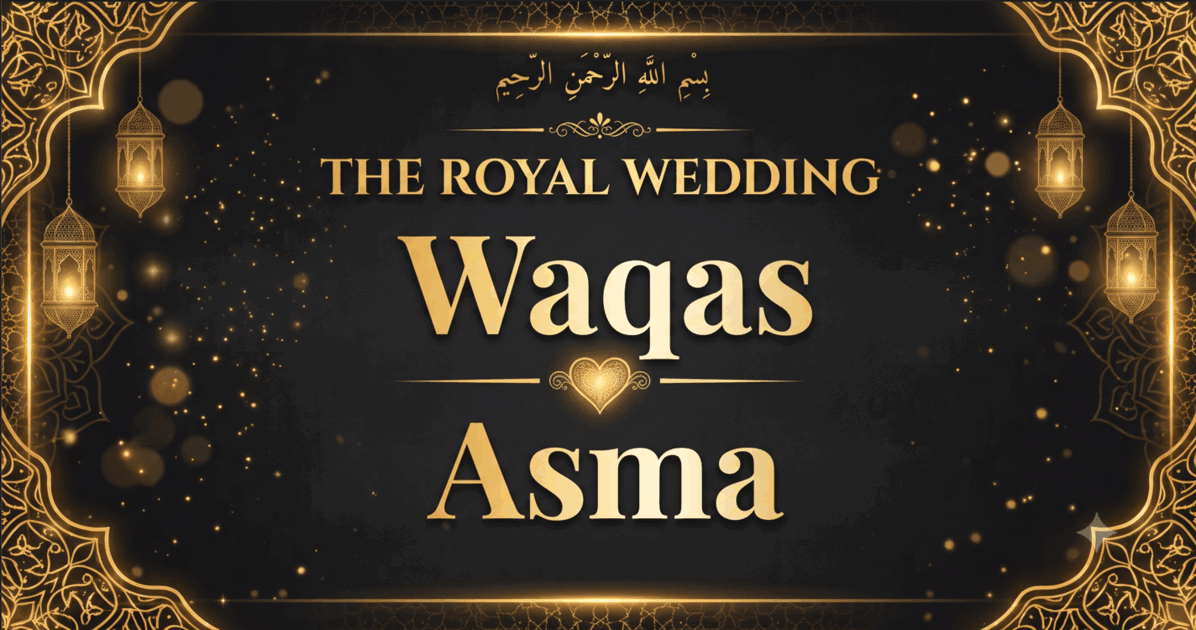
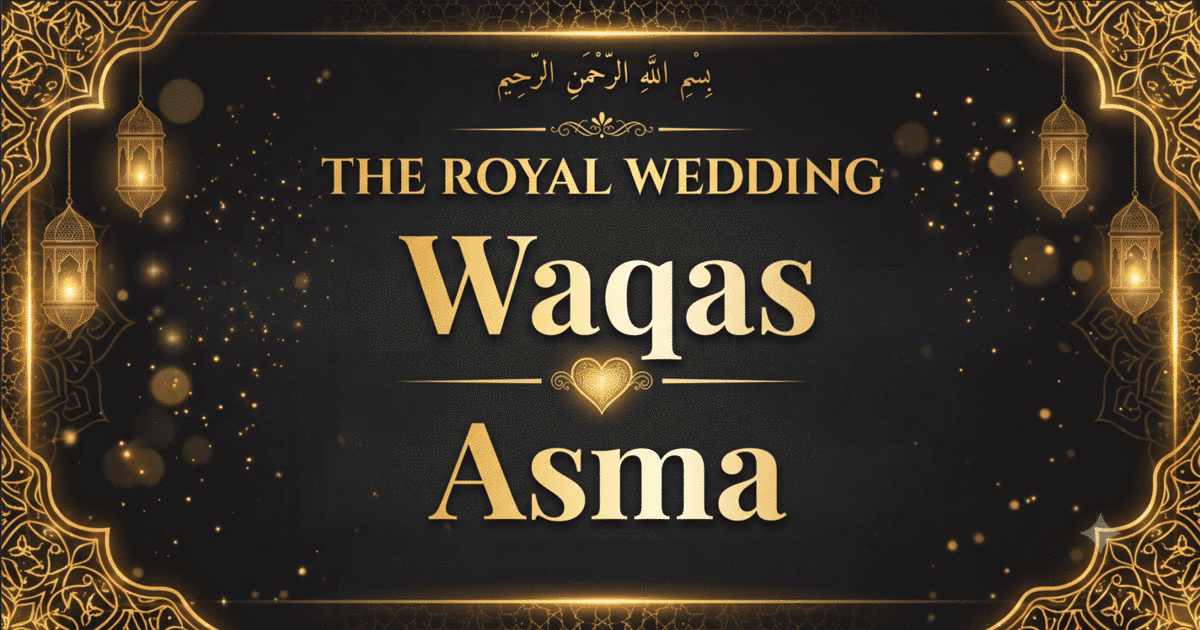
feat: enhance social sharing and image assets
- Update social preview image to PNG format for compatibility
- Add meta tags for improved WhatsApp social previews
- Add native mobile share support to ShareModal
- Configure allowed hosts in Vite dev server

diff --git a/index.html b/index.html
@@ -14,7 +14,7 @@
     <link rel="apple-touch-icon" sizes="180x180" href="/apple-touch-icon.png" />
     <link rel="icon" type="image/png" sizes="192x192" href="/icon-192.png" />
     <link rel="icon" type="image/png" sizes="512x512" href="/icon-512.png" />
-    <link rel="image_src" href="https://ais-pre-fwru2o6zrcaaozjoec3zxz-933593385806.asia-east1.run.app/wmeta.jpg" />
+    <link rel="image_src" href="https://ais-pre-fwru2o6zrcaaozjoec3zxz-933593385806.asia-east1.run.app/wmeta.png" />
 
     <!-- OpenGraph & WhatsApp Social Preview Tags (WhatsApp Android & iPhone) -->
     <meta property="og:type" content="website" />
@@ -23,31 +23,39 @@
     <meta property="og:description" content="We cordially solicit your gracious presence, blessings & prayers at the Nikkah & Valima celebration on Thursday, 31st December 2026." />
     <meta property="og:url" content="https://ais-pre-fwru2o6zrcaaozjoec3zxz-933593385806.asia-east1.run.app/" />
 
-    <!-- Primary Compressed Landscape Image (136 KB, < 300KB WhatsApp limit) -->
-    <meta property="og:image" content="https://ais-pre-fwru2o6zrcaaozjoec3zxz-933593385806.asia-east1.run.app/wmeta.jpg" />
-    <meta property="og:image:secure_url" content="https://ais-pre-fwru2o6zrcaaozjoec3zxz-933593385806.asia-east1.run.app/wmeta.jpg" />
-    <meta property="og:image:type" content="image/jpeg" />
-    <meta property="og:image:width" content="1200" />
-    <meta property="og:image:height" content="630" />
-    <meta property="og:image:alt" content="The Royal Wedding - Mohammed Waqas & Asma Shajer" />
-
-    <!-- Secondary PNG Image Fallback (268 KB) -->
+    <!-- Primary Compressed Landscape Image (wmeta.png, 285 KB, < 300KB WhatsApp limit) -->
     <meta property="og:image" content="https://ais-pre-fwru2o6zrcaaozjoec3zxz-933593385806.asia-east1.run.app/wmeta.png" />
     <meta property="og:image:secure_url" content="https://ais-pre-fwru2o6zrcaaozjoec3zxz-933593385806.asia-east1.run.app/wmeta.png" />
     <meta property="og:image:type" content="image/png" />
     <meta property="og:image:width" content="1200" />
     <meta property="og:image:height" content="630" />
+    <meta property="og:image:alt" content="Wedding Invitation — Mohammed Waqas & Asma Shajer" />
+
+    <!-- Secondary JPEG Image Fallback (wmeta.jpg, 139 KB, ultra-fast load on mobile) -->
+    <meta property="og:image" content="https://ais-pre-fwru2o6zrcaaozjoec3zxz-933593385806.asia-east1.run.app/wmeta.jpg" />
+    <meta property="og:image:secure_url" content="https://ais-pre-fwru2o6zrcaaozjoec3zxz-933593385806.asia-east1.run.app/wmeta.jpg" />
+    <meta property="og:image:type" content="image/jpeg" />
+    <meta property="og:image:width" content="1200" />
+    <meta property="og:image:height" content="630" />
+
+    <!-- Square Image Fallback (For 1:1 Aspect Ratio WhatsApp & Telegram Previews) -->
+    <meta property="og:image" content="https://ais-pre-fwru2o6zrcaaozjoec3zxz-933593385806.asia-east1.run.app/wmeta_square.jpg" />
+    <meta property="og:image:secure_url" content="https://ais-pre-fwru2o6zrcaaozjoec3zxz-933593385806.asia-east1.run.app/wmeta_square.jpg" />
+    <meta property="og:image:type" content="image/jpeg" />
+    <meta property="og:image:width" content="800" />
+    <meta property="og:image:height" content="800" />
 
     <!-- Google / Microdata Itemprop Tags (WhatsApp / Telegram crawler fallback) -->
     <meta itemprop="name" content="💍 Mohammed Waqas & Asma Shajer — Wedding Invitation" />
     <meta itemprop="description" content="We cordially solicit your gracious presence, blessings & prayers at the Nikkah & Valima celebration on Thursday, 31st December 2026." />
-    <meta itemprop="image" content="https://ais-pre-fwru2o6zrcaaozjoec3zxz-933593385806.asia-east1.run.app/wmeta.jpg" />
+    <meta itemprop="image" content="https://ais-pre-fwru2o6zrcaaozjoec3zxz-933593385806.asia-east1.run.app/wmeta.png" />
     
     <!-- Twitter / X Card -->
     <meta name="twitter:card" content="summary_large_image" />
     <meta name="twitter:title" content="💍 Mohammed Waqas & Asma Shajer — Wedding Invitation" />
     <meta name="twitter:description" content="We cordially solicit your gracious presence, blessings & prayers at the Nikkah & Valima celebration on Thursday, 31st December 2026." />
-    <meta name="twitter:image" content="https://ais-pre-fwru2o6zrcaaozjoec3zxz-933593385806.asia-east1.run.app/wmeta.jpg" />
+    <meta name="twitter:image" content="https://ais-pre-fwru2o6zrcaaozjoec3zxz-933593385806.asia-east1.run.app/wmeta.png" />
+    <meta name="twitter:image:alt" content="Wedding Invitation — Mohammed Waqas & Asma Shajer" />
 
     <!-- Schema.org Structured Data -->
     <script type="application/ld+json">
@@ -81,7 +89,7 @@
           }
         }
       ],
-      "image": "/metaa.png",
+      "image": "https://ais-pre-fwru2o6zrcaaozjoec3zxz-933593385806.asia-east1.run.app/wmeta.png",
       "description": "Nikkah & Valima of Mohammed Waqas & Asma Shajer on 31st December 2026 in Ambur."
     }
     </script>
@@ -94,36 +102,54 @@
     <!-- Cute Wedding Favicon (Interlocking Rings & Glowing Heart) -->
     <link rel="icon" type="image/svg+xml" href="/favicon.svg" />
 
-    <!-- Dynamic Domain Origin Syncer for Client-Side Shares -->
+    <!-- Dynamic Domain Origin Syncer for Client-Side Shares & iOS Safari Preview Resolution -->
     <script>
       (function() {
         try {
-          if (typeof window !== 'undefined' && window.location.origin) {
+          if (typeof window !== 'undefined' && window.location && window.location.origin) {
             var origin = window.location.origin;
-            var fullPng = origin + '/metaa.png';
-            var fullApple = origin + '/apple-touch-icon.png';
+            var currentFullUrl = window.location.href.split('#')[0];
             
-            var metaImgs = document.querySelectorAll('meta[property="og:image"], meta[property="og:image:secure_url"], meta[name="twitter:image"], meta[itemprop="image"]');
-            metaImgs.forEach(function(el) {
-              var curr = el.getAttribute('content');
-              if (curr && curr.startsWith('/')) {
-                el.setAttribute('content', origin + curr);
-              }
-            });
-
-            var appleLink = document.querySelector('link[rel="apple-touch-icon"]');
-            if (appleLink) appleLink.setAttribute('href', fullApple);
-
-            var imgSource = document.querySelector('link[rel="image_src"]');
-            if (imgSource) imgSource.setAttribute('href', fullPng);
-
+            // Sync canonical URL
             var canonical = document.querySelector('link[rel="canonical"]');
             if (!canonical) {
               canonical = document.createElement('link');
               canonical.setAttribute('rel', 'canonical');
               document.head.appendChild(canonical);
             }
-            canonical.setAttribute('href', window.location.href.split('#')[0]);
+            canonical.setAttribute('href', currentFullUrl);
+
+            // Sync og:url
+            var ogUrl = document.querySelector('meta[property="og:url"]');
+            if (ogUrl) {
+              ogUrl.setAttribute('content', currentFullUrl);
+            }
+
+            // Sync apple-touch-icon
+            var appleLink = document.querySelector('link[rel="apple-touch-icon"]');
+            if (appleLink) {
+              appleLink.setAttribute('href', origin + '/apple-touch-icon.png');
+            }
+
+            // Sync image_src to wmeta.png
+            var imgSource = document.querySelector('link[rel="image_src"]');
+            if (imgSource) {
+              imgSource.setAttribute('href', origin + '/wmeta.png');
+            }
+
+            // Dynamically update all meta image content tags to active origin if running on dev domain or custom host
+            var metaImgs = document.querySelectorAll('meta[property="og:image"], meta[property="og:image:secure_url"], meta[name="twitter:image"], meta[itemprop="image"]');
+            metaImgs.forEach(function(el) {
+              var curr = el.getAttribute('content');
+              if (curr) {
+                if (curr.startsWith('/')) {
+                  el.setAttribute('content', origin + curr);
+                } else if (curr.includes('run.app') || curr.includes('localhost')) {
+                  var path = curr.replace(/^https?:\/\/[^\/]+/, '');
+                  el.setAttribute('content', origin + path);
+                }
+              }
+            });
           }
         } catch (e) {}
       })();

diff --git a/src/components/ShareModal.tsx b/src/components/ShareModal.tsx
@@ -12,13 +12,15 @@ interface ShareModalProps {
 export const ShareModal: React.FC<ShareModalProps> = ({ isOpen, onClose, lang }) => {
   const [qrDataUrl, setQrDataUrl] = useState<string>('');
   const [copied, setCopied] = useState(false);
+  const [useDevLink, setUseDevLink] = useState(false);
   const t = translations[lang];
+
+  const isDevHost = typeof window !== 'undefined' && window.location.hostname.includes('ais-dev-');
 
   const getPublicShareUrl = (): string => {
     if (typeof window === 'undefined') return 'https://ais-pre-fwru2o6zrcaaozjoec3zxz-933593385806.asia-east1.run.app';
     let url = window.location.href;
-    // Map internal AI Studio development URLs to public preview so WhatsApp and guests can access without login
-    if (url.includes('ais-dev-')) {
+    if (!useDevLink && url.includes('ais-dev-')) {
       url = url.replace('ais-dev-', 'ais-pre-');
     }
     try {
@@ -32,6 +34,7 @@ export const ShareModal: React.FC<ShareModalProps> = ({ isOpen, onClose, lang })
   };
 
   const currentUrl = getPublicShareUrl();
+  const canNativeShare = typeof navigator !== 'undefined' && typeof navigator.share === 'function';
 
   useEffect(() => {
     if (isOpen) {
@@ -49,6 +52,20 @@ export const ShareModal: React.FC<ShareModalProps> = ({ isOpen, onClose, lang })
   }, [isOpen, currentUrl]);
 
   if (!isOpen) return null;
+
+  const handleNativeShare = async () => {
+    if (!canNativeShare) return;
+    try {
+      await navigator.share({
+        title: '💍 Mohammed Waqas & Asma Shajer — Wedding Invitation',
+        text: 'We cordially solicit your gracious presence, blessings & prayers at the Nikkah & Valima celebration on Thursday, 31st December 2026.',
+        url: currentUrl,
+      });
+    } catch (err) {
+      // User cancelled share or not supported
+      console.log('Share dismissed', err);
+    }
+  };
 
   const handleWhatsAppShare = () => {
     const message = t.whatsappMessage.includes('{link}')
@@ -75,7 +92,7 @@ export const ShareModal: React.FC<ShareModalProps> = ({ isOpen, onClose, lang })
         isUrdu ? 'font-urdu' : isTamil ? 'font-tamil' : ''
       }`}
     >
-      <div className="relative w-full max-w-sm sm:max-w-md rounded-3xl apple-glass border border-[#D4AF37]/30 p-6 sm:p-8 shadow-[0_30px_90px_rgba(0,0,0,0.9)] text-center">
+      <div className="relative w-full max-w-sm sm:max-w-md rounded-3xl apple-glass border border-[#D4AF37]/30 p-6 sm:p-7 shadow-[0_30px_90px_rgba(0,0,0,0.9)] text-center max-h-[92vh] overflow-y-auto">
         {/* Close button */}
         <button
           onClick={onClose}
@@ -86,8 +103,8 @@ export const ShareModal: React.FC<ShareModalProps> = ({ isOpen, onClose, lang })
         </button>
 
         {/* Modal Title */}
-        <div className="flex flex-col items-center mb-6">
-          <div className="w-10 h-10 rounded-2xl bg-[#D4AF37]/20 border border-[#D4AF37]/40 text-[#D4AF37] flex items-center justify-center mb-3">
+        <div className="flex flex-col items-center mb-4">
+          <div className="w-10 h-10 rounded-2xl bg-[#D4AF37]/20 border border-[#D4AF37]/40 text-[#D4AF37] flex items-center justify-center mb-2.5">
             <Share2 className="w-5 h-5" />
           </div>
           <h3 className={`${titleFont} text-xl sm:text-2xl text-white`}>
@@ -99,32 +116,74 @@ export const ShareModal: React.FC<ShareModalProps> = ({ isOpen, onClose, lang })
         </div>
 
         {/* QR Code Canvas Frame */}
-        <div className="my-5 flex justify-center">
-          <div className="p-3 rounded-2xl bg-gradient-to-br from-[#F5E6C8] to-[#D4AF37] shadow-[0_15px_40px_rgba(212,175,55,0.2)]">
+        <div className="my-3 flex justify-center">
+          <div className="p-2.5 rounded-2xl bg-gradient-to-br from-[#F5E6C8] to-[#D4AF37] shadow-[0_15px_40px_rgba(212,175,55,0.2)]">
             {qrDataUrl ? (
               <img
                 src={qrDataUrl}
                 alt="QR Code for Wedding Invitation"
-                className="w-48 h-48 rounded-xl object-contain"
+                className="w-40 h-40 sm:w-44 sm:h-44 rounded-xl object-contain"
               />
             ) : (
-              <div className="w-48 h-48 rounded-xl bg-neutral-900 flex items-center justify-center text-xs text-neutral-400">
+              <div className="w-40 h-40 sm:w-44 sm:h-44 rounded-xl bg-neutral-900 flex items-center justify-center text-xs text-neutral-400">
                 Generating QR...
               </div>
             )}
           </div>
         </div>
 
-        <p className="text-[11px] text-[#D4AF37] font-medium tracking-wide uppercase mb-6">
+        <p className="text-[11px] text-[#D4AF37] font-medium tracking-wide uppercase mb-3">
           {t.scanQrInstruction}
         </p>
 
+        {/* Link URL Display */}
+        <div className="mb-3 px-3 py-2 rounded-xl bg-black/40 border border-white/[0.08] flex items-center justify-between text-left">
+          <span className="text-[11px] text-neutral-400 truncate max-w-[220px] font-mono select-all">
+            {currentUrl}
+          </span>
+          <button
+            onClick={handleCopyLink}
+            className="text-[11px] text-[#D4AF37] font-semibold hover:underline shrink-0 ml-2 cursor-pointer"
+          >
+            {copied ? '✓ Copied' : 'Copy'}
+          </button>
+        </div>
+
+        {/* Dev Host Helper Note */}
+        {isDevHost && (
+          <div className="mb-3 p-2 rounded-xl bg-[#D4AF37]/10 border border-[#D4AF37]/20 text-[10px] text-neutral-300 text-left">
+            <p className="leading-tight">
+              <span className="text-[#D4AF37] font-bold">Important:</span> Tap <strong className="text-white">Share</strong> in the top-right AI Studio header to publish the public guest link so WhatsApp & iPhones can preview without login.
+            </p>
+            <div className="mt-1.5 flex items-center gap-2">
+              <button
+                type="button"
+                onClick={() => setUseDevLink(!useDevLink)}
+                className="text-[10px] underline text-[#D4AF37] cursor-pointer"
+              >
+                {useDevLink ? 'Switch to Public Guest link' : 'Switch to direct Dev URL'}
+              </button>
+            </div>
+          </div>
+        )}
+
         {/* Action Buttons */}
-        <div className="space-y-2.5">
+        <div className="space-y-2">
+          {/* Native iOS / Android Share Sheet (If supported on device) */}
+          {canNativeShare && (
+            <button
+              onClick={handleNativeShare}
+              className="w-full h-11 rounded-xl bg-gradient-to-r from-[#D4AF37] to-[#AA7C11] hover:opacity-95 text-black font-bold text-xs flex items-center justify-center gap-2 shadow-lg shadow-[#D4AF37]/20 transition-transform active:scale-[0.98] cursor-pointer"
+            >
+              <Share2 className="w-4 h-4 text-black" />
+              <span>Share via iPhone / Device Sheet</span>
+            </button>
+          )}
+
           {/* WhatsApp Direct Share Button */}
           <button
             onClick={handleWhatsAppShare}
-            className="w-full h-12 rounded-xl bg-gradient-to-r from-[#25D366] to-[#128C7E] hover:opacity-95 text-white font-semibold text-xs flex items-center justify-center gap-2.5 shadow-lg shadow-[#25D366]/20 transition-transform active:scale-[0.98] cursor-pointer"
+            className="w-full h-11 rounded-xl bg-gradient-to-r from-[#25D366] to-[#128C7E] hover:opacity-95 text-white font-semibold text-xs flex items-center justify-center gap-2 shadow-lg shadow-[#25D366]/20 transition-transform active:scale-[0.98] cursor-pointer"
           >
             <MessageSquare className="w-4 h-4" />
             <span>{t.shareOnWhatsappBtn}</span>
@@ -133,7 +192,7 @@ export const ShareModal: React.FC<ShareModalProps> = ({ isOpen, onClose, lang })
           {/* Copy Link Button */}
           <button
             onClick={handleCopyLink}
-            className="w-full h-11 rounded-xl bg-white/[0.06] hover:bg-white/[0.1] border border-white/[0.1] text-white text-xs font-medium flex items-center justify-center gap-2 transition-colors cursor-pointer"
+            className="w-full h-10 rounded-xl bg-white/[0.06] hover:bg-white/[0.1] border border-white/[0.1] text-white text-xs font-medium flex items-center justify-center gap-2 transition-colors cursor-pointer"
           >
             {copied ? (
               <>

diff --git a/vite.config.ts b/vite.config.ts
@@ -12,6 +12,7 @@ export default defineConfig(() => {
       },
     },
     server: {
+      allowedHosts: true as const,
       // HMR is disabled in AI Studio via DISABLE_HMR env var.
       // Do not modify—file watching is disabled to prevent flickering during agent edits.
       hmr: process.env.DISABLE_HMR !== 'true',
